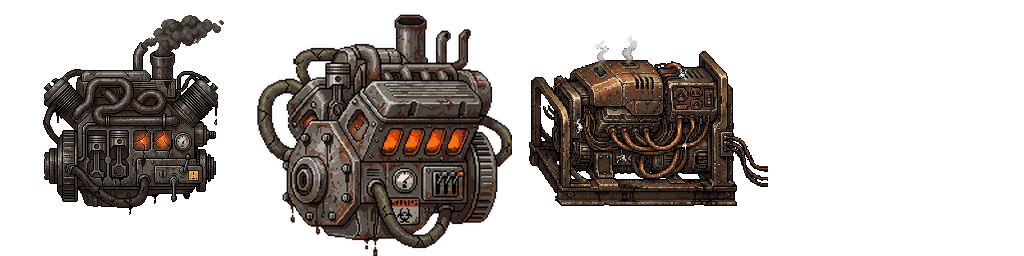
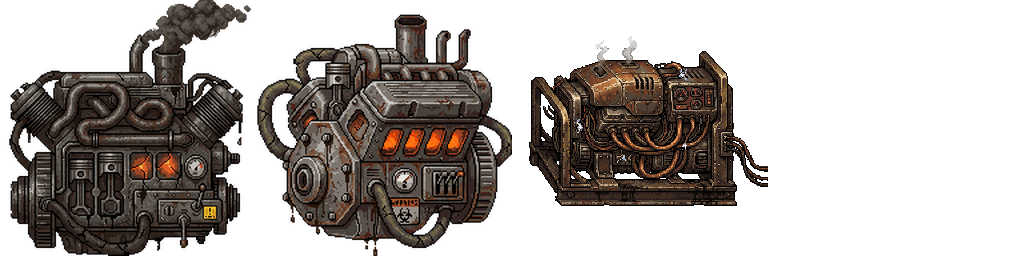
Refresh both component atlases from the updated basic diesel source

Changed region(s): [[0.0, 0.0, 0.25, 1.0]]

diff --git a/docs/modular/module-icons.md b/docs/modular/module-icons.md
@@ -3,7 +3,7 @@
 ## User-provided engine and generator portraits
 
 The user-provided square **RGBA** PNGs are retained without modification by the icon generator.
-The current sources are 256×256, except the user-updated improved diesel at 192×192:
+The current diesel sources are both 192×192; the generator source is 256×256:
 
 | Source under `mods/ca/bits/modular/` | Bound component |
 | --- | --- |
@@ -19,7 +19,10 @@ atlas (64px tiles). Both atlases have power-of-two dimensions and a transparent 
 The renderer selects the larger atlas above 64px, so it never stretches a small menu icon to fill
 an enlarged module. The remaining generic category art intentionally retains its pixel-art scale.
 
-Run `python tools/modular/generate_component_icons.py` after updating the source PNGs.
+Run `python tools/modular/generate_component_icons.py` after updating the source PNGs, then
+restart OpenRA. The game reads the generated atlases, not the original source PNGs. Neither a
+normal .NET build nor the running designer regenerates these atlases automatically. Commit the
+changed originals together with both regenerated atlases so the source and displayed art agree.
 This does not regenerate or overwrite the separate generic category artwork below.
 
 The selected component's portrait appears in the sidebar, dropdown, fitted grid block and held
